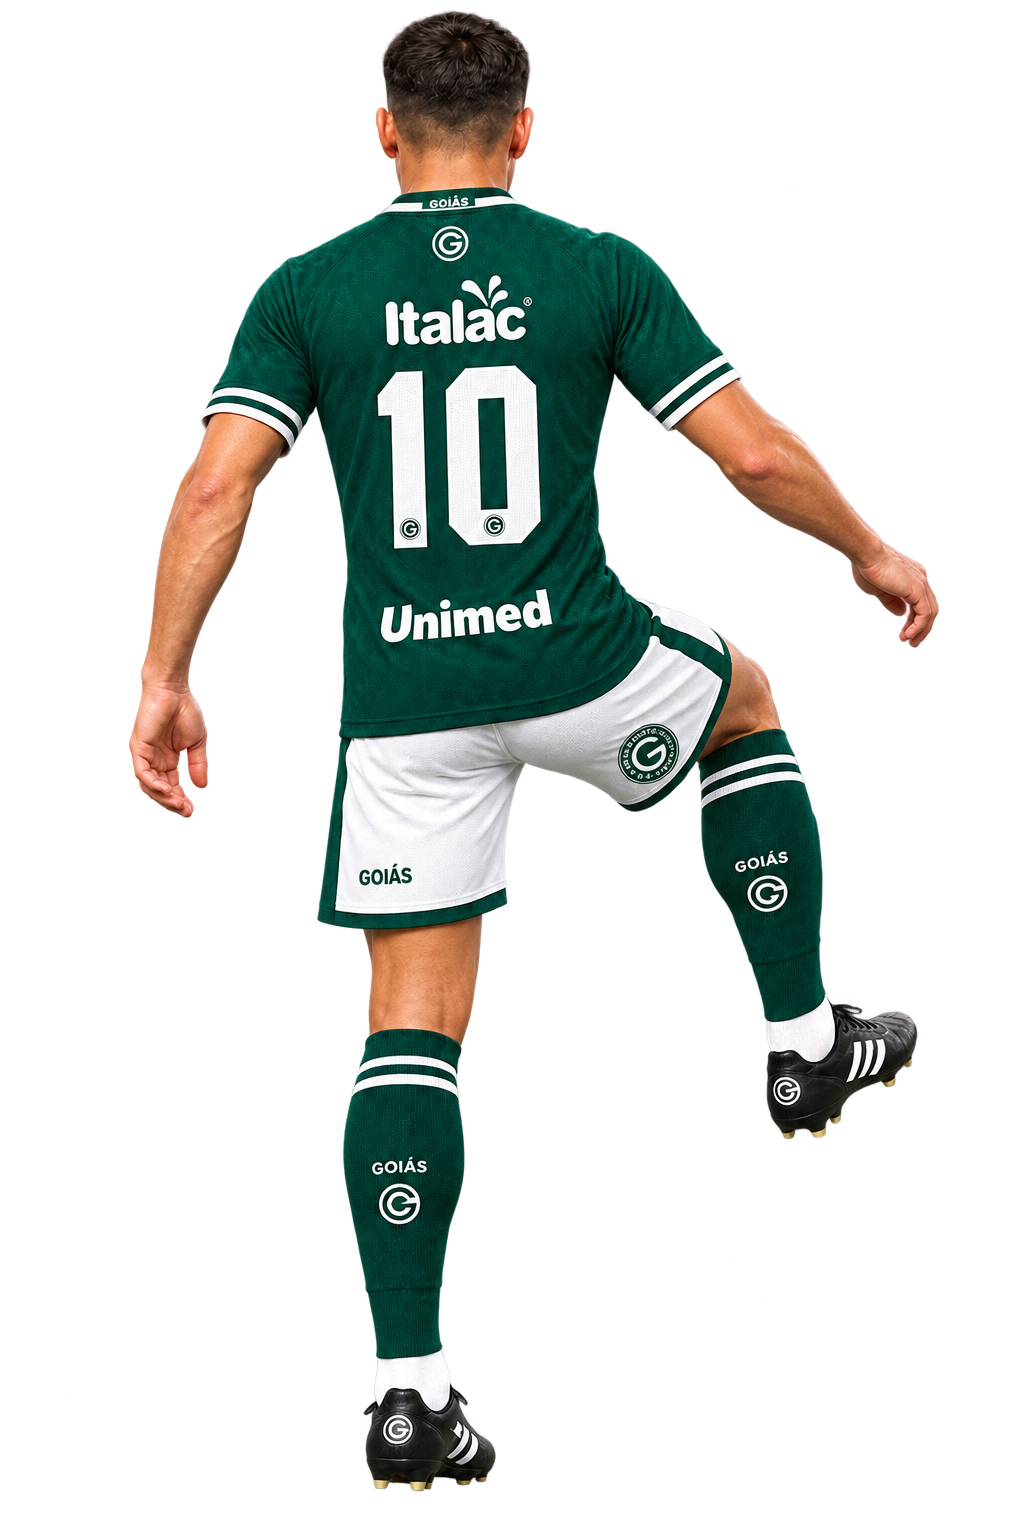
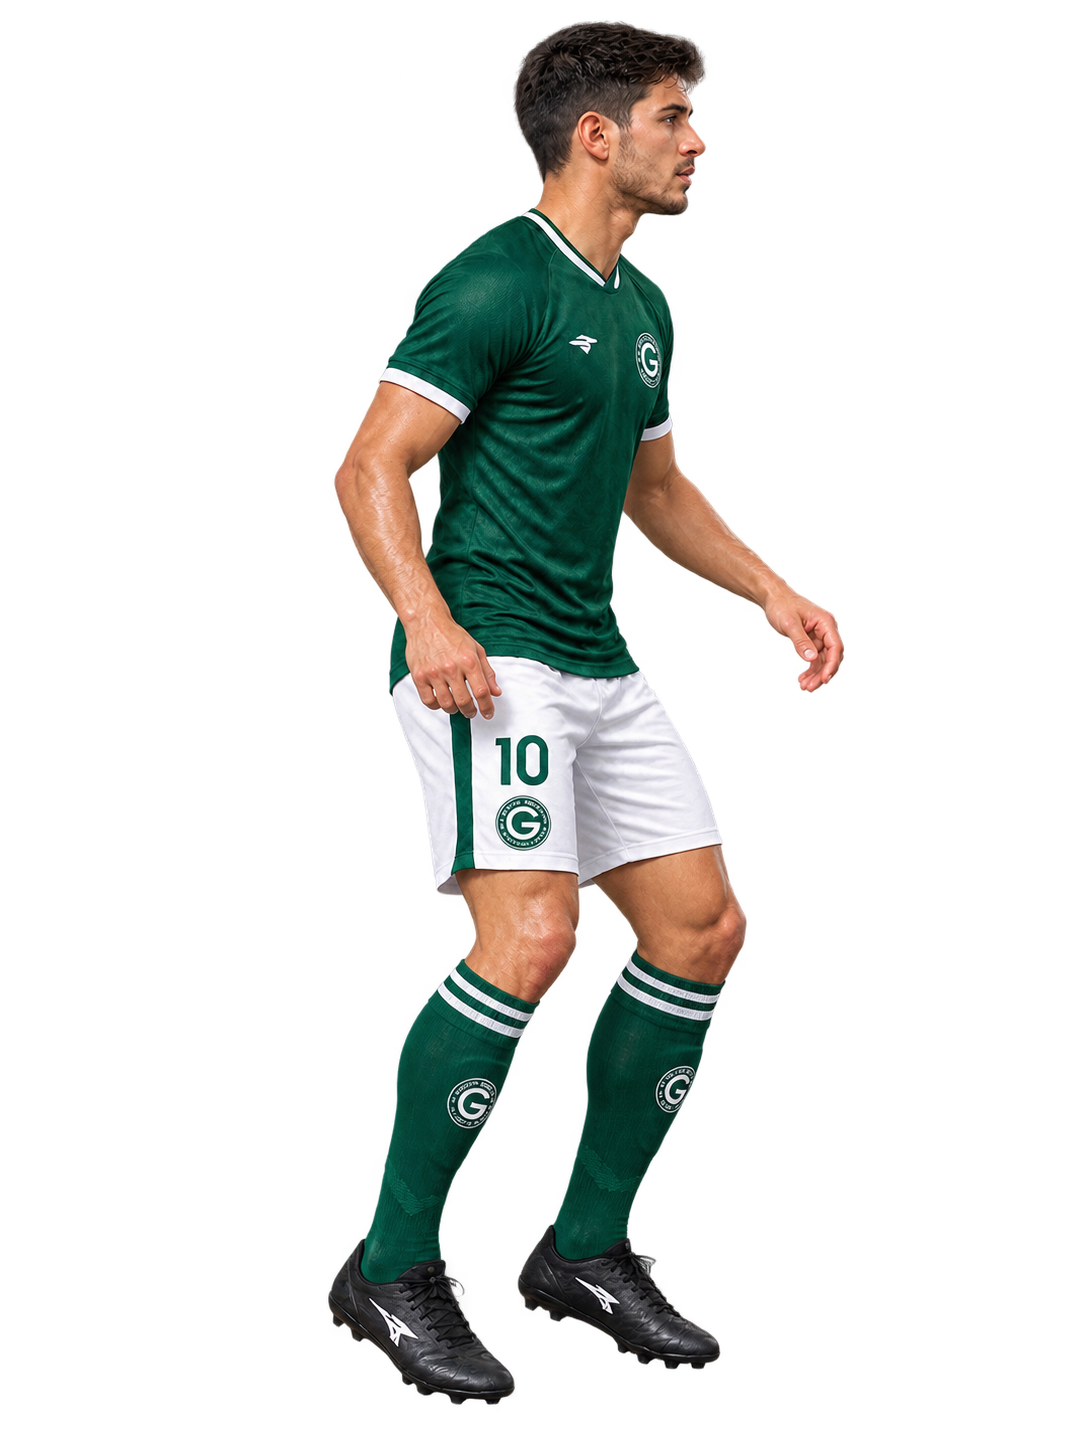
Switch the Embaixadinhas player to a side view

Changed region(s): [[0.125, 0.0, 0.9375, 0.9945]]

diff --git a/lib/features/arena/games/keepy_uppy/keepy_uppy_game.dart b/lib/features/arena/games/keepy_uppy/keepy_uppy_game.dart
@@ -84,7 +84,7 @@ class KeepyUppyGame extends FlameGame {
   // Física da bola (unidades relativas ao tamanho da tela, por segundo).
   double _velocityY = 0;
   double _spinSpeed = 0;
-  bool _rightFoot = true;
+  bool _highPose = false;
 
   // Countdown.
   static const _countdownSteps = ['3', '2', '1', 'VAI!'];
@@ -94,10 +94,14 @@ class KeepyUppyGame extends FlameGame {
   double _poseResetTimer = 0;
 
   // --- Geometria derivada do tamanho (responsivo) ------------------------
-  double get _centerX => size.x / 2;
+  // Jogador de perfil à esquerda, bola descendo na coluna à frente dele
+  // (direita) — assim a bola nunca fica "colada" no corpo e o contato com o
+  // pé da frente fica explícito.
+  double get _playerCenterX => size.x * 0.40;
+  double get _ballColumnX => size.x * 0.55;
   double get _playerFeetY => size.y * 0.80;
-  double get _contactY => size.y * 0.55;
-  double get _ballRadius => size.x * 0.052;
+  double get _contactY => size.y * 0.56;
+  double get _ballRadius => size.x * 0.055;
   double get _groundY => size.y * 1.04;
 
   double get _difficulty => (min(_keepUps, 60) / 60).clamp(0.0, 1.0);
@@ -134,21 +138,21 @@ class KeepyUppyGame extends FlameGame {
   }
 
   void _layout() {
-    final playerH = size.y * 0.60;
+    final playerH = size.y * 0.62;
     _player
       ..size = Vector2(playerH * KeepyUppyPlayer.aspectRatio, playerH)
-      ..position = Vector2(_centerX, _playerFeetY);
+      ..position = Vector2(_playerCenterX, _playerFeetY);
     _target
-      ..position = Vector2(_centerX, _playerFeetY)
-      ..radius = size.x * 0.17;
+      ..position = Vector2(_ballColumnX, _playerFeetY)
+      ..radius = size.x * 0.16;
     _shadow
-      ..position = Vector2(_centerX, _playerFeetY)
+      ..position = Vector2(_ballColumnX, _playerFeetY)
       ..baseWidth = _ballRadius * 3;
     _ball
       ..size = Vector2.all(_ballRadius * 2)
       ..anchor = Anchor.center;
     if (_phase == KeepyUppyPhase.countdown) {
-      _ball.position = Vector2(_centerX, _contactY);
+      _ball.position = Vector2(_ballColumnX, _contactY);
     }
   }
 
@@ -161,12 +165,12 @@ class KeepyUppyGame extends FlameGame {
     _score = 0;
     _velocityY = 0;
     _spinSpeed = 0;
-    _rightFoot = true;
+    _highPose = false;
     _countdownIndex = 0;
     _countdownTimer = 0;
     _player.pose = KeepyUppyPose.idle;
     _ball
-      ..position = Vector2(_centerX, _contactY)
+      ..position = Vector2(_ballColumnX, _contactY)
       ..spin = 0;
     _shadow.heightFraction = 0;
     _target.active = false;
@@ -281,13 +285,13 @@ class KeepyUppyGame extends FlameGame {
     }
 
     // Novo impulso pra cima, com a dificuldade já atualizada pelo novo
-    // placar; alterna o pé e o lado do giro/deslocamento da bola.
+    // placar; alterna a pose (contato baixo/alto) pra dar ritmo natural.
     _velocityY = -sqrt(2 * _gravity * _apexHeight);
-    _rightFoot = !_rightFoot;
-    _spinSpeed = (_rightFoot ? 1 : -1) * (2.2 + _difficulty * 2.4);
-    _ball.position.x = _centerX + (_rightFoot ? 1 : -1) * size.x * 0.02;
-    _player.pose = _rightFoot ? KeepyUppyPose.juggleRight : KeepyUppyPose.juggleLeft;
-    _poseResetTimer = 0.22;
+    _highPose = !_highPose;
+    _spinSpeed = 2.2 + _difficulty * 2.4;
+    _ball.position.x = _ballColumnX;
+    _player.pose = _highPose ? KeepyUppyPose.juggleHigh : KeepyUppyPose.juggleLow;
+    _poseResetTimer = 0.24;
 
     _spawnFeedback(perfect: perfect);
     _emitHud();

diff --git a/lib/features/arena/games/keepy_uppy/components/keepy_uppy_player.dart b/lib/features/arena/games/keepy_uppy/components/keepy_uppy_player.dart
@@ -13,11 +13,11 @@ import 'package:goias_app/features/arena/shared/arena_assets.dart';
 class KeepyUppyPlayer extends PositionComponent {
   KeepyUppyPlayer() : super(anchor: Anchor.bottomCenter);
 
-  static const double aspectRatio = 1024 / 1536;
+  static const double aspectRatio = 1086 / 1448;
 
   Image? _idle;
-  Image? _left;
-  Image? _right;
+  Image? _low;
+  Image? _high;
 
   KeepyUppyPose pose = KeepyUppyPose.idle;
 
@@ -31,8 +31,8 @@ class KeepyUppyPlayer extends PositionComponent {
   @override
   Future<void> onLoad() async {
     _idle = await _load(ArenaAssets.keepyPlayerIdle);
-    _left = await _load(ArenaAssets.keepyPlayerJuggleLeft);
-    _right = await _load(ArenaAssets.keepyPlayerJuggleRight);
+    _low = await _load(ArenaAssets.keepyPlayerJuggleLow);
+    _high = await _load(ArenaAssets.keepyPlayerJuggleHigh);
   }
 
   Future<Image> _load(String path) async {
@@ -44,8 +44,8 @@ class KeepyUppyPlayer extends PositionComponent {
 
   Image? get _current => switch (pose) {
     KeepyUppyPose.idle => _idle,
-    KeepyUppyPose.juggleLeft => _left,
-    KeepyUppyPose.juggleRight => _right,
+    KeepyUppyPose.juggleLow => _low,
+    KeepyUppyPose.juggleHigh => _high,
   };
 
   @override

diff --git a/lib/features/arena/shared/arena_assets.dart b/lib/features/arena/shared/arena_assets.dart
@@ -31,11 +31,10 @@ class ArenaAssets {
 
   static const String _keepy = 'lib/assets/games/keepy_uppy';
 
-  /// Poses do jogador nas embaixadinhas (de costas, uniforme verde nº 10),
-  /// todas 1024x1536 no mesmo canvas — desenhadas no mesmo rect pra o corpo
-  /// nunca mudar de escala/âncora entre as poses.
+  /// Poses do jogador nas embaixadinhas — de perfil (virado à direita),
+  /// uniforme verde nº 10, todas 1086x1448 no mesmo canvas. Desenhadas no
+  /// mesmo rect pra o corpo nunca mudar de escala/âncora entre as poses.
   static const keepyPlayerIdle = '$_keepy/player_idle.png';
-  static const keepyPlayerJuggleLeft = '$_keepy/player_juggle_left.png';
-  static const keepyPlayerJuggleRight = '$_keepy/player_juggle_right.png';
-  static const keepyPlayerJuggleKnee = '$_keepy/player_juggle_knee.png';
+  static const keepyPlayerJuggleLow = '$_keepy/player_juggle_low.png';
+  static const keepyPlayerJuggleHigh = '$_keepy/player_juggle_high.png';
 }

diff --git a/lib/features/arena/games/keepy_uppy/keepy_uppy_models.dart b/lib/features/arena/games/keepy_uppy/keepy_uppy_models.dart
@@ -2,4 +2,4 @@ enum KeepyUppyPhase { countdown, playing, dying, over }
 
 enum HitQuality { perfect, normal }
 
-enum KeepyUppyPose { idle, juggleLeft, juggleRight }
+enum KeepyUppyPose { idle, juggleLow, juggleHigh }
